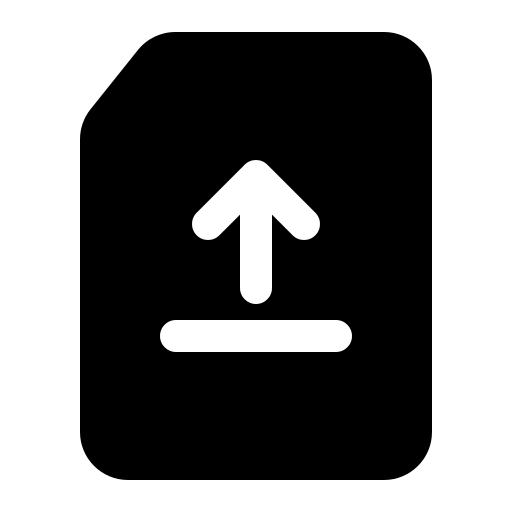
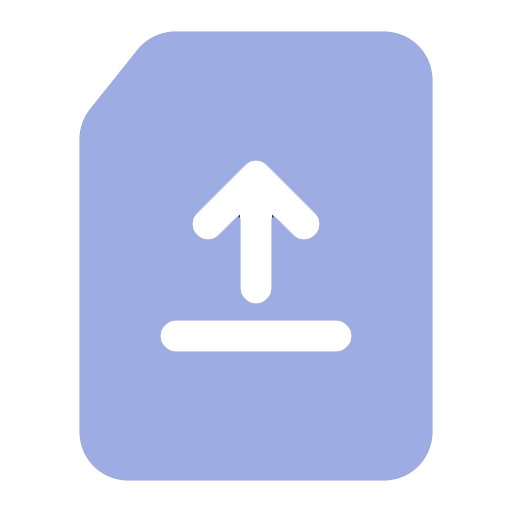
11th: stylized buttons & addBlock

diff --git a/src/components/popup/maker.css b/src/components/popup/maker.css
@@ -26,7 +26,7 @@
   padding: 25px;
   margin: 10px auto;
 
-  height: 250px;
+  height: 270px;
 
   background-color: rgb(97, 99, 118);
   border-radius: 10px;
@@ -44,7 +44,7 @@
 .modal__content input {
   transition: 0s;
 
-  width: calc(100% - 31px);
+  width: calc(100% - 36px);
   padding: 15px;
 
   height: 40px;
@@ -69,11 +69,13 @@
 }
 
 .modal__content textarea {
-  width: calc(100% - 31px);
+  width: calc(100% - 36px);
+
+  margin-top: 15px;
 
   padding: 15px;
 
-  min-height: 110px;
+  height: 110px;
 
   color: rgb(134, 183, 223);
   font-weight: bold;
@@ -100,6 +102,13 @@
   transform: scale(1);
 }
 
+.buttonArea {
+  position: relative;
+  top: 8px;
+  height: 30px;
+  width: 100%;
+}
+
 button {
   border: none;
 
@@ -116,11 +125,14 @@ button:hover {
 }
 
 .deleteButton {
-  background-image: url("../../images/deleteIcon.png");
+  background-image: url("../../images/blueDeleteIcon.png");
   background-size: cover;
 }
 
 .applyButton {
   background-image: url("../../images/applyIcon.png");
   background-size: cover;
+
+  position: absolute;
+  right: 0px;
 }

diff --git a/src/components/componentStyles/todoStyle.css b/src/components/componentStyles/todoStyle.css
@@ -59,6 +59,7 @@
   min-width: 30px;
   height: inherit;
 }
+
 .defaultButton {
   width: 23px;
   height: 23px;
@@ -93,26 +94,36 @@
 
 .botoomPart {
   position: relative;
-  top: 2px;
   border-top: 2px solid white;
 }
 
 .bottomButtonBlock {
   width: 100%;
   height: 30px;
+
+  margin-top: 10px;
 }
 
 .bottomButtonBlock button {
-  color: rgb(157, 172, 226);
-  font-family: "Nunito", sans-serif;
-  font-weight: 800;
-  font-size: 17px;
+  width: 25px;
+  height: 25px;
 
-  height: 30px;
-  width: 70px;
-
-  background: none;
+  background-color: transparent;
   border: none;
+
+  transition: all 0.4s;
+
+  background-size: cover;
+}
+
+.whiteDeleteButton {
+  background-image: url("../../images/whiteDeleteIcon.png");
+  background-size: cover;
+}
+
+.editButton {
+  background-image: url("../../images/write.png");
+  background-size: cover;
 }
 
 .bottomButtonBlock button:hover {
@@ -125,10 +136,11 @@
 }
 
 .botoomBar {
-  position: relative;
-  top: 2px;
+  padding-top: 3px;
 
   font-size: 20px;
+
+  height: auto;
 }
 
 .noToDoBlock {

diff --git a/src/components/ToDoBlock.jsx b/src/components/ToDoBlock.jsx
@@ -3,6 +3,7 @@ import "./componentStyles/todoStyle.css";
 function ToDoBlock(props) {
   const [isBootomActive, setIsBootomActive] = useState(false);
 
+  //TODO: переписать логику стилей без участия евента
   function bottomActiveChangeHandler(event) {
     setIsBootomActive(!isBootomActive);
     if (isBootomActive) {
@@ -42,8 +43,8 @@ function ToDoBlock(props) {
       {isBootomActive && (
         <div className="botoomPart">
           <div className="bottomButtonBlock">
-            <button onClick={deleteHandler}>Delete</button>
-            <button>Edit</button>
+            <button className=" whiteDeleteButton" onClick={deleteHandler} />
+            <button className=" editButton" />
           </div>
           {props.body && <div className="botoomBar">{props.body}</div>}
         </div>

diff --git a/src/components/Top/TopPanel.jsx b/src/components/Top/TopPanel.jsx
@@ -137,15 +137,17 @@ function TopPanel(props) {
             setAddBody(e.target.value);
           }}
         />
-        <button
-          className="deleteButton"
-          onClick={() => {
-            setIsActiveModal(false);
-            setAddBody("");
-            setAddTitle("");
-          }}
-        />
-        <button className="applyButton" onClick={() => handleTodoAdd()} />
+        <div className="buttonArea">
+          <button
+            className="deleteButton"
+            onClick={() => {
+              setIsActiveModal(false);
+              setAddBody("");
+              setAddTitle("");
+            }}
+          />
+          <button className="applyButton" onClick={() => handleTodoAdd()} />
+        </div>
       </ToDoMaker>
     </>
   );

diff --git a/src/App.js b/src/App.js
@@ -26,8 +26,10 @@ function App() {
   }
 
   function todoAdder(todoToAdd) {
-    console.log(todoToAdd);
-    setToDoList([...toDoList, { ...todoToAdd, id: Date.now() }]);
+    setToDoList([
+      ...toDoList,
+      { ...todoToAdd, id: Date.now(), completed: false },
+    ]);
   }
 
   const searchedToDoList = useMemo(() => {

diff --git a/src/Api/ToDoGetApi.js b/src/Api/ToDoGetApi.js
@@ -10,7 +10,7 @@ function postToToDo(post) {
 async function setToDo(setterFunc) {
   const response = await axios.get(
     "https://jsonplaceholder.typicode.com/posts",
-    { params: { _limit: 3 } },
+    { params: { _limit: 6 } },
   );
   setterFunc(response.data.map(postToToDo));
 }
